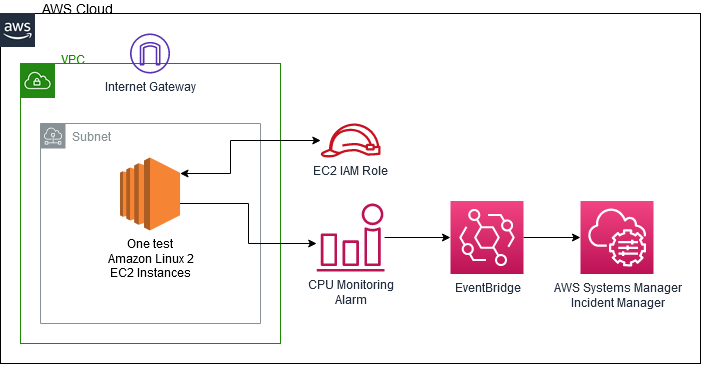
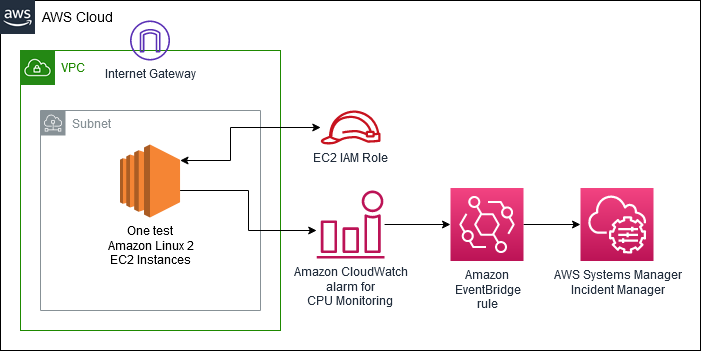
Updates

diff --git a/episode-05-step-01-enable-incident.md b/episode-05-step-01-enable-incident.md
@@ -23,11 +23,11 @@ AWS Systems Manager **Incident Manager** enables faster resolution of critical a
 
 ## Instructions
 
-In this section you will (1)...
+In this section you will create prerequisite resources using a CloudFormation template. You will then setup Incident Manager and prepare for a incident by creating contacts, escalation plans, and response plans.
 
 ### Create prerequisite resources using CloudFormation
 
-The [CloudFormation template](cfntemplates/ssm-workshop-resources-episode-05.yml) creates a test Amazon Linux 2 EC2 instance, IAM instance profile role for System Manager, an Amazon CloudWatch alarm for the instance to monitor CPU performance, an IAM role for Amazon EventBridge, and an EventBridge rule.
+The [CloudFormation template](cfntemplates/ssm-workshop-resources-episode-05.yml) creates a test Amazon Linux 2 EC2 instance, IAM instance profile role for System Manager, an Amazon CloudWatch alarm for the instance to monitor CPU performance, an IAM role for Amazon EventBridge, and an EventBridge rule to start the incident.
 
 ### Create test resources using CloudFormation
 
